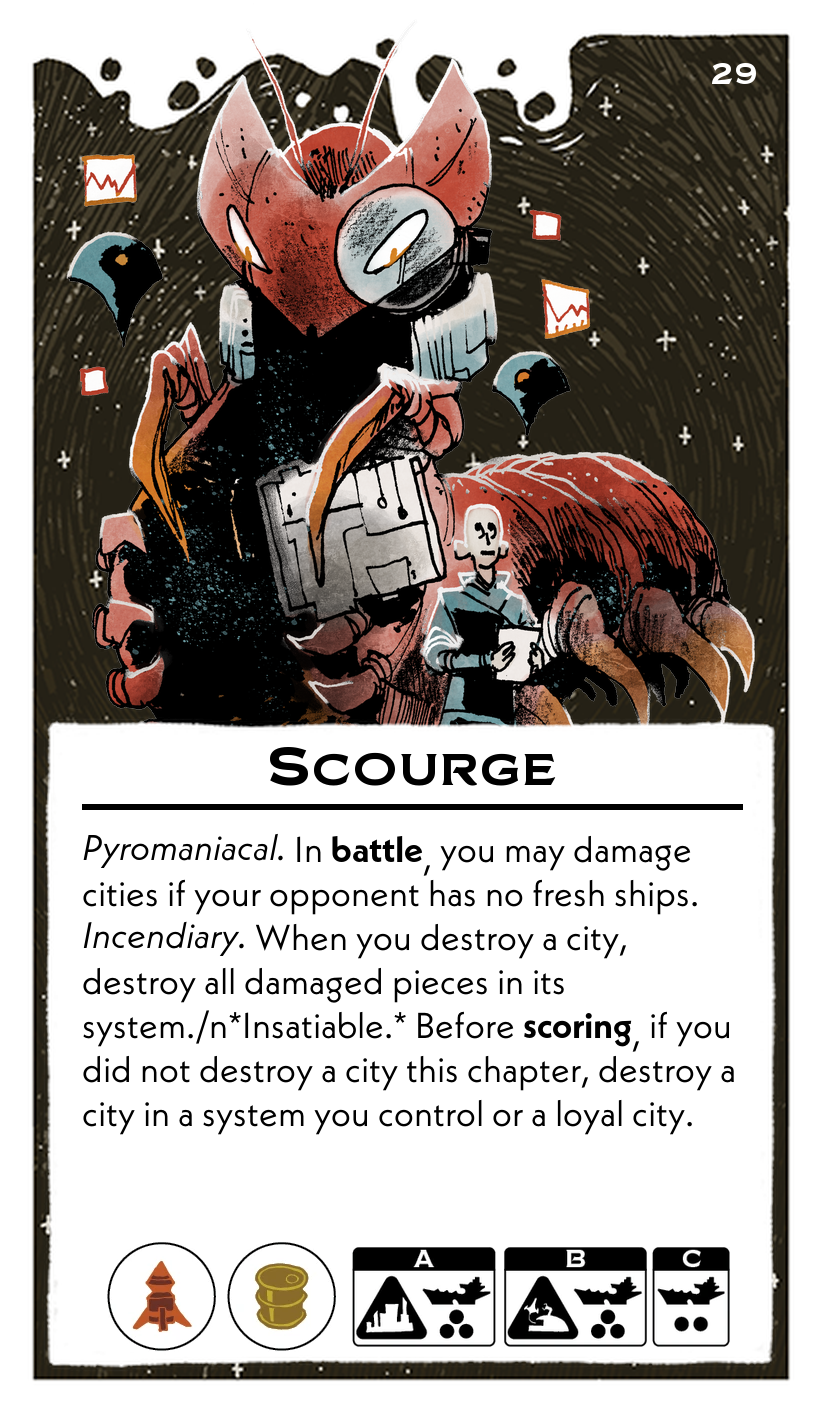
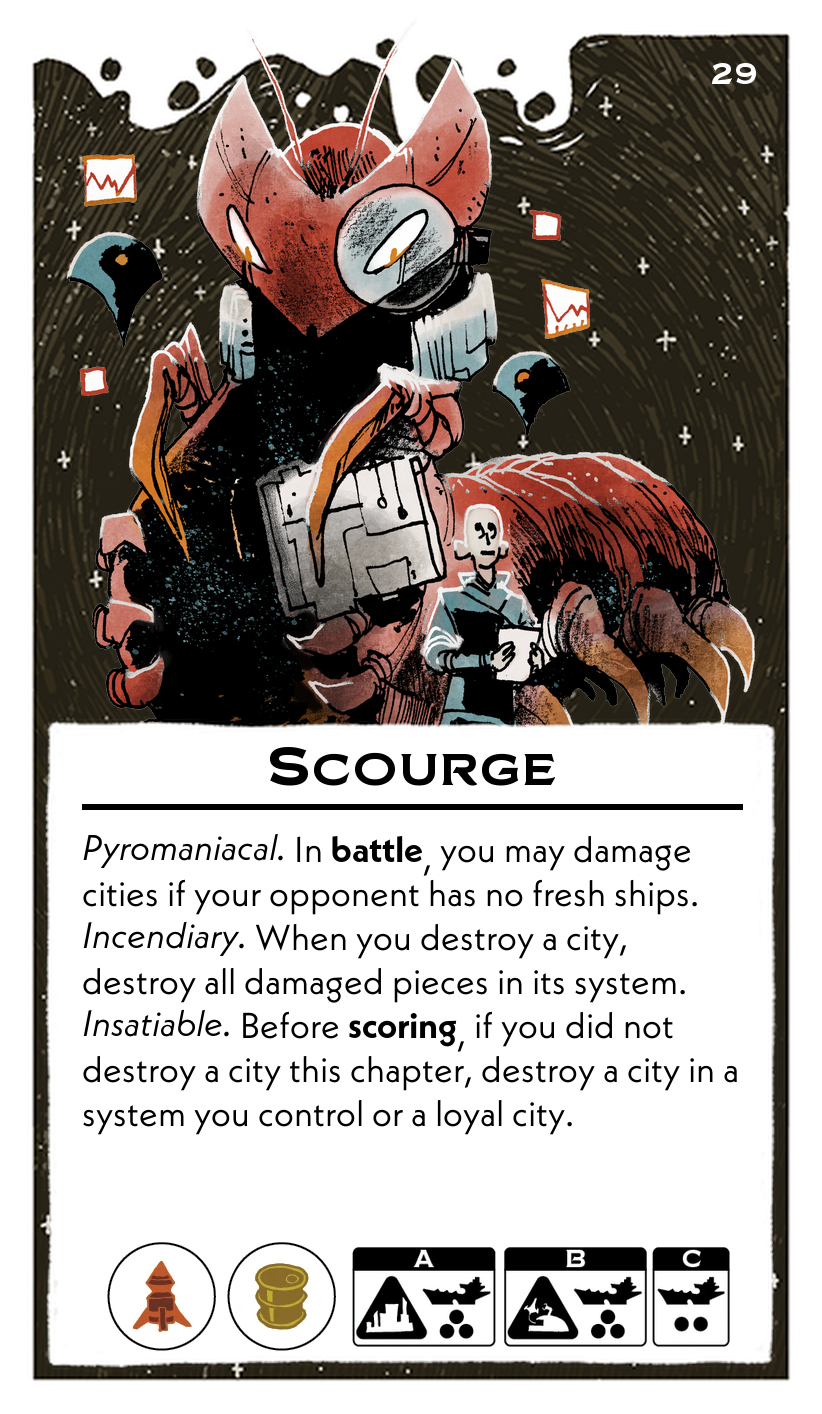
courier

Changed region(s): [[0.0912, 0.6846, 0.9124, 0.8091]]

diff --git a/scripts/leadersFormatted.py b/scripts/leadersFormatted.py
@@ -446,7 +446,7 @@ leaders = [
         "name": "Scourge",
         "abilities": (
             "*Pyromaniacal.* In **battle**, you may damage cities if your opponent has no fresh ships.\n"
-            "*Incendiary.* When you destroy a city, destroy all damaged pieces in its system./n"
+            "*Incendiary.* When you destroy a city, destroy all damaged pieces in its system.\n"
             "*Insatiable.* Before **scoring**, if you did not destroy a city this chapter, destroy a city in a system you control or a loyal city."
         ),
         "resources": ["Weapon", "Fuel"],
